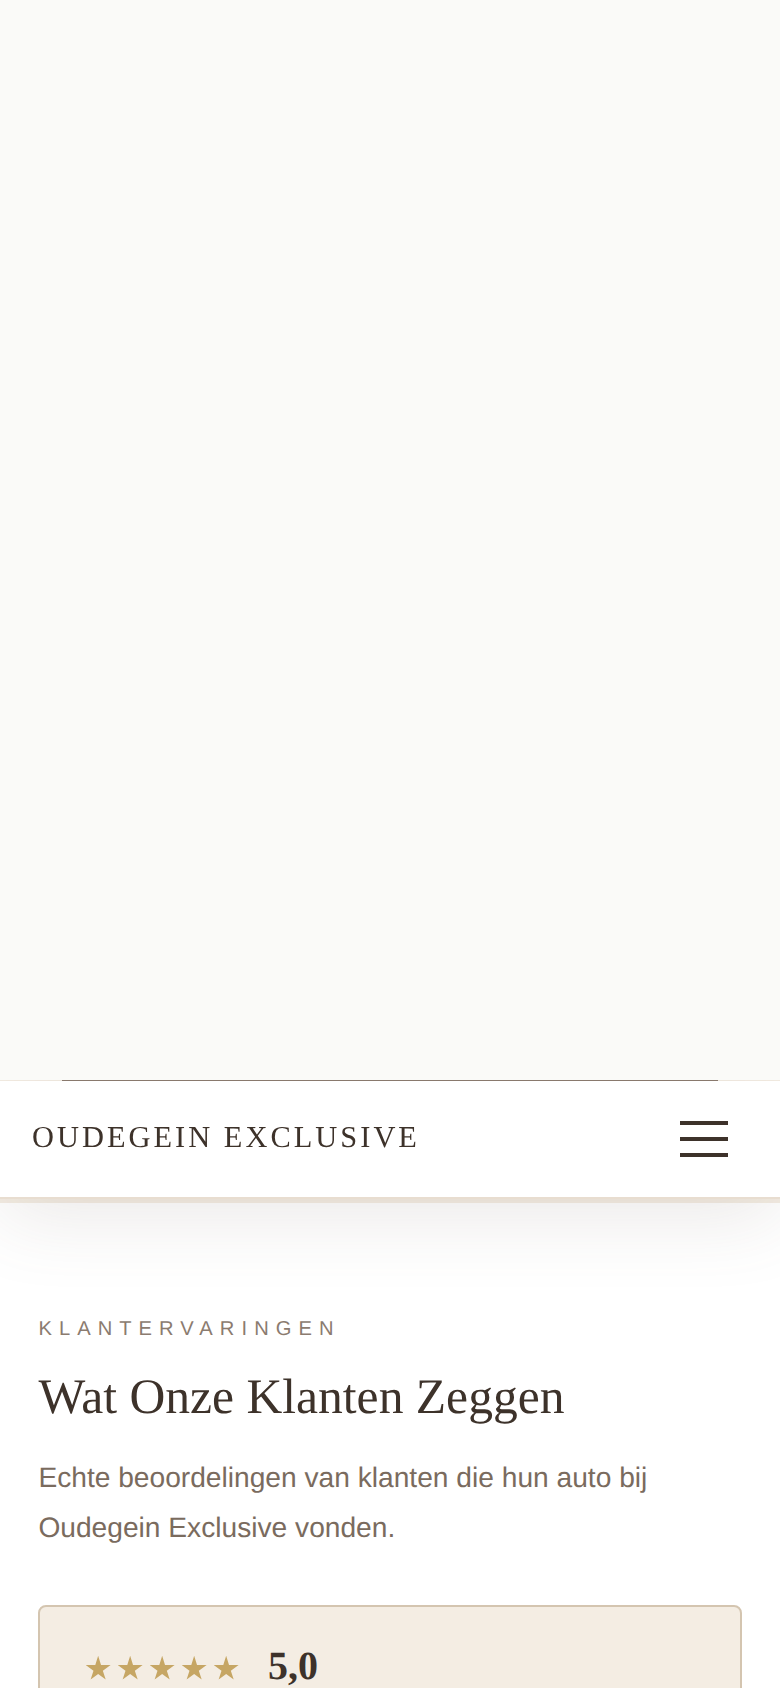
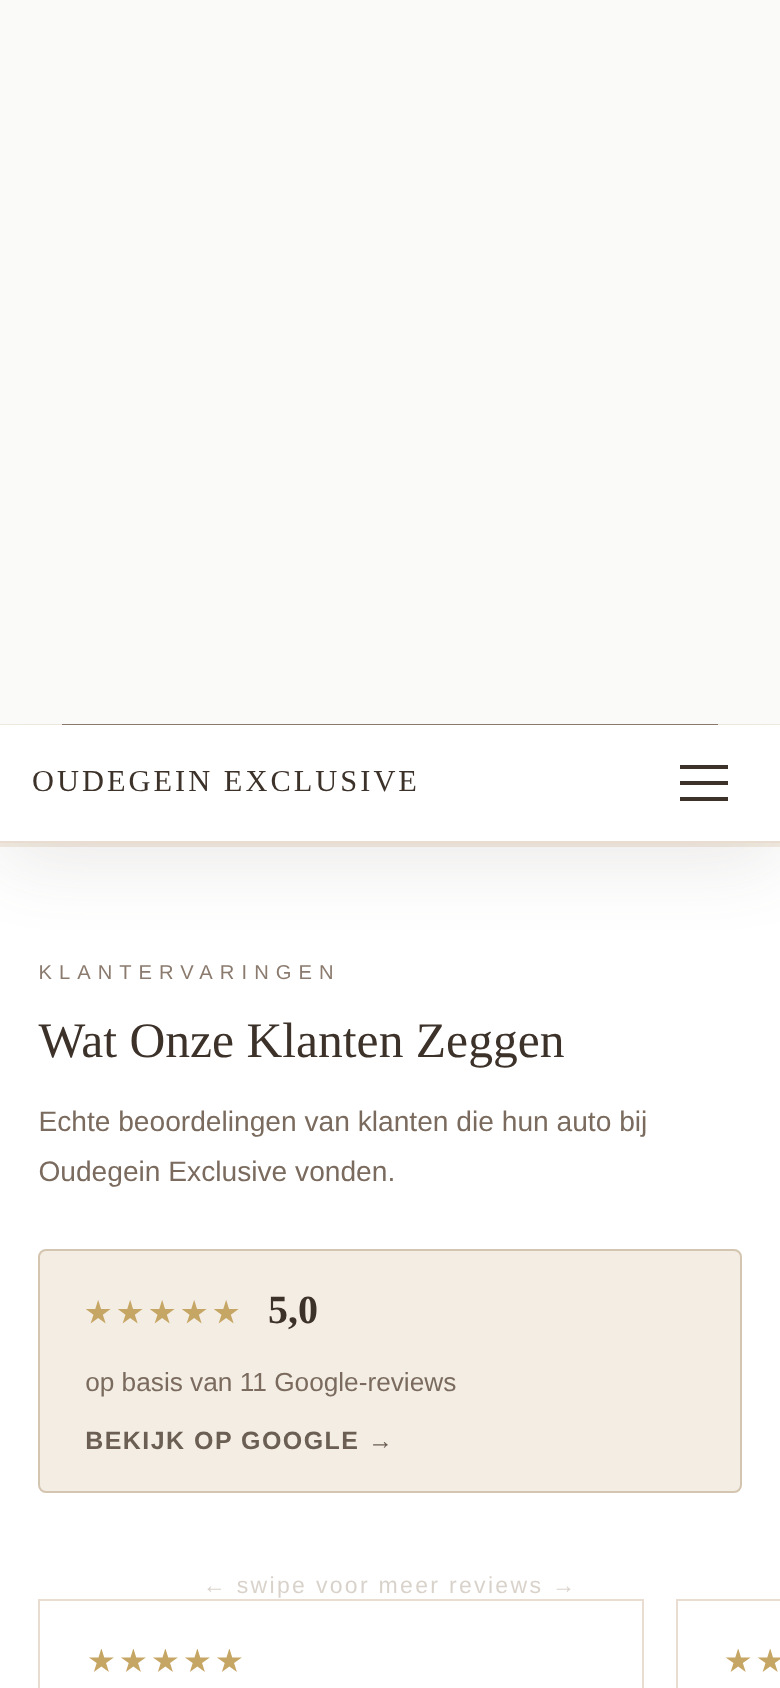
Add files via upload

diff --git a/index.html b/index.html
@@ -1654,9 +1654,27 @@
       .calculator { padding: 1.8rem 1.4rem; }
       .calc-maand { font-size: 1.5rem; }
 
-      /* Reviews */
-      .reviews-grid { grid-template-columns: 1fr; gap: 1rem; }
-      .review-kaart { padding: 1.5rem; }
+      /* Reviews — horizontale swipe-carrousel op mobiel */
+      .reviews-grid {
+        display: flex;
+        grid-template-columns: none;
+        overflow-x: auto;
+        scroll-snap-type: x mandatory;
+        -webkit-overflow-scrolling: touch;
+        gap: 1rem;
+        padding: 0 0 0.8rem 0;
+        margin: 0 -1.2rem;
+        padding-left: 1.2rem;
+        padding-right: 1.2rem;
+        scroll-padding-left: 1.2rem;
+        scrollbar-width: none;
+      }
+      .reviews-grid::-webkit-scrollbar { display: none; }
+      .review-kaart {
+        flex: 0 0 86%;
+        scroll-snap-align: start;
+        padding: 1.5rem;
+      }
 
       /* Import/Export */
       .proc-kaart { padding: 1.5rem; }
@@ -2620,6 +2638,7 @@
       <span class="google-score-tekst">op basis van 11 Google-reviews</span>
       <a href="https://www.google.com/search?q=oudegein+exclusive+reviews" target="_blank" rel="noopener" class="google-score-link">Bekijk op Google &rarr;</a>
     </div>
+    <div class="swipe-hint">&larr; swipe voor meer reviews &rarr;</div>
     <div class="reviews-grid">
       <div class="review-kaart">
         <div class="review-sterren"><div class="ster"></div><div class="ster"></div><div class="ster"></div><div class="ster"></div><div class="ster"></div></div>
